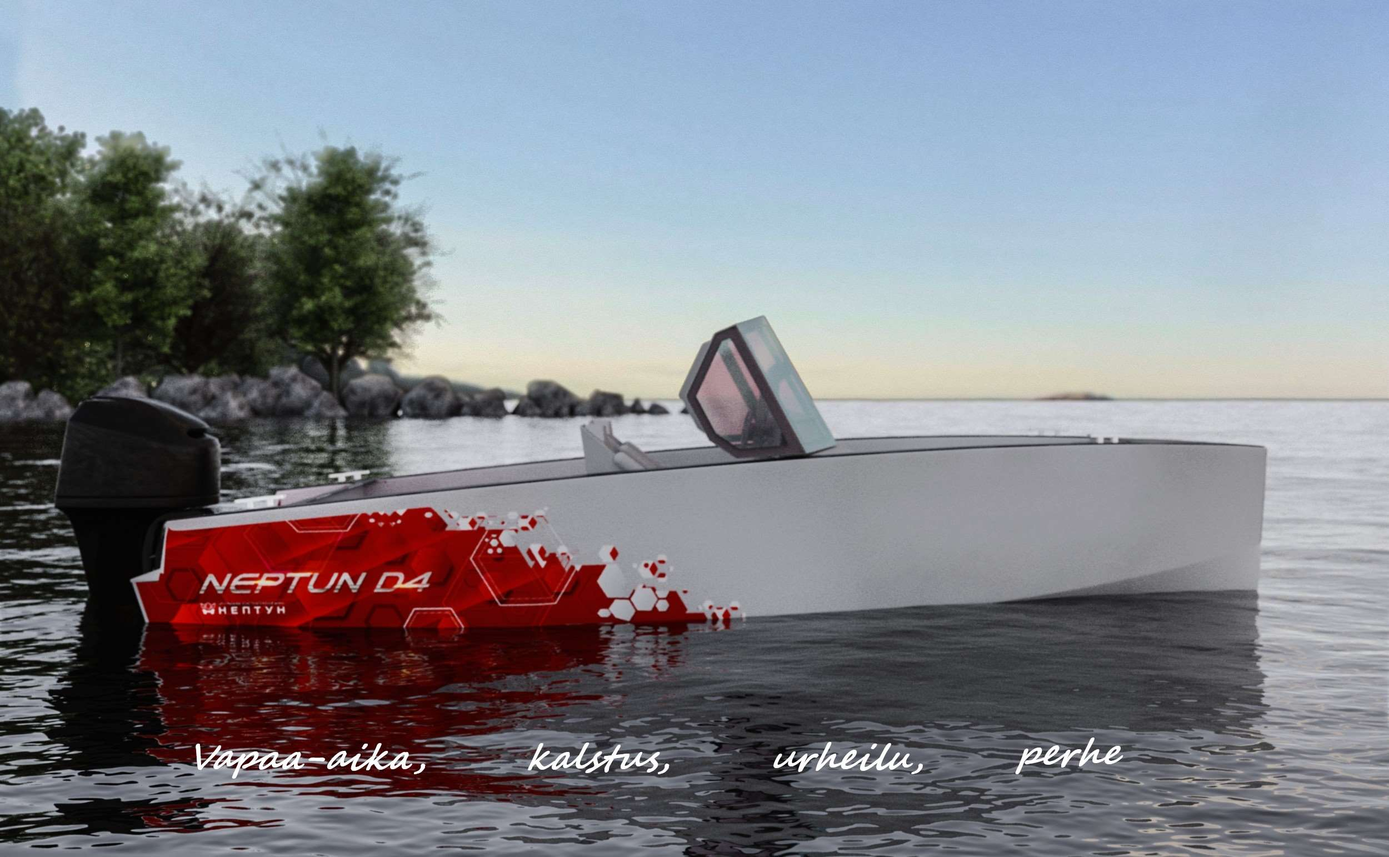
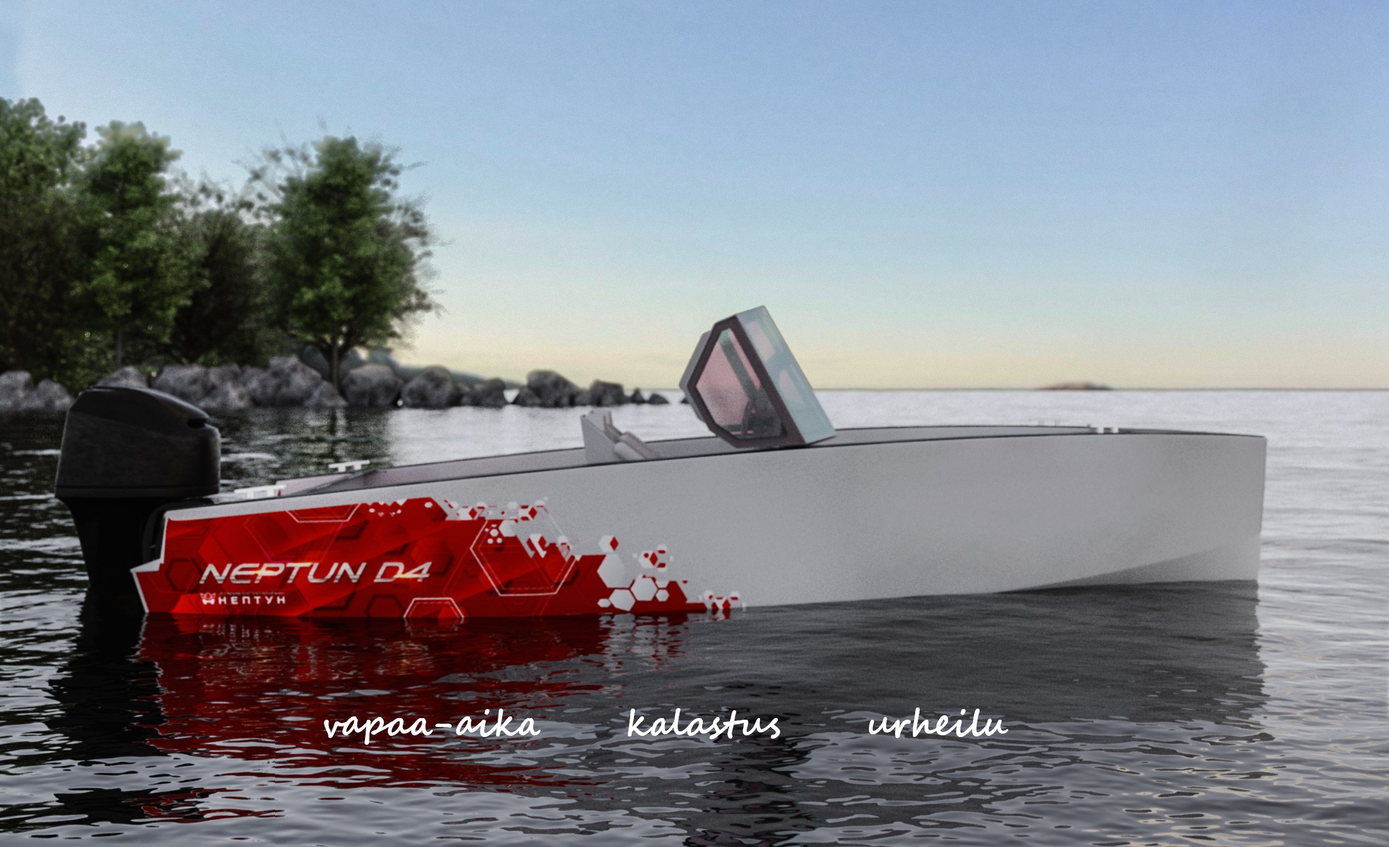
13.2

diff --git a/boat/home.html b/boat/home.html
@@ -19,29 +19,31 @@
 <img src="lodka-logo.jpg"  width="213" height="39">
 <br>
 <font size=4>
-Neptun D4 malli hinta/laatu-suhteeltaan on
-hyvä vaihtoehto omassa veneluokassa. Myös
-veneen ulkonäkö, mukavuus ja ajoominaisuudet ovat luokan kärkeä. Veneessa
-on riittävästi lattiatilaa.
-Hitsaamalla tehty kokonainen runko on
-vahva ja tiiivis ja se on uppoamaton.
-Valmistusmateriaali PE-HD muovi *
-(Suuritiheyksinen muovi) jolla UV-suojaus.
-Sillä taattu veneen kestävyys kovissakin
-rasituksissa kuten kolhuja, iskuja, suuria
-lämpötilaeroja ja UV-säteily.
-Veneeseen mukavasti mahtuu (maks.) 6-
+Neptun D4 malli on hintalaatusuhteeltaan järkevä ja tyylikäs
+vaihtoehto veneluokassaan. Veneen
+mukavuus ja ajo-ominaisuudet ovat
+kärkiluokkaa. Veneessa on runsaasti
+lattiatilaa.
+Hitsaamalla tehty yksiosainen runko on
+uppoamaton, vahva ja tiiivis.
+Valmistusmateriaali UV-suojattu PE-HD
+muovi * (Suuritiheyksinen muovi) .
+Kestää kovaakin rasitusta, iskuja, suuria
+lämpötilaeroja ja säätä.Vene kantaa 6-
 henkilöä. Veneen kuljettamiseen riittää
-kevytperävaunu ja ”B”- luokan ajokortti
-Neptun D4 soveltuu aktiivisille ja harrastaja
-kalastajille, perheille tai mukavaan ajan
-viettoon.
+kevytperävaunu ja ”B”- luokan ajokortti.
+Neptun D4 soveltuu ammattikäyttöön,
+aktiiviselle kalastajalle ja mukavaan ajan
+viettoon vaikka perheen kanssa.
 <br><br>
 
 <img src=lodka.jpg  width="833" height="514">
 <img src=lodka-2.jpg  width="833" height="514">
 <br>
-<img src=lodka-3.jpg  width="500" height="666">
+<img src=lodka-3.jpg  width="833" height="514">
+<img src=lodka-4.jpg  width="833" height="514">
+<br>
+<img src=lodka-5.jpg  width="500" height="666">
 <img src=lodka-tekn2.png  width="974" height="666">
 <br>
 * PE-HD (korkeatiheyksinen polyeteeni) on samea, kova ja kestävä, mutta samalla joustava muovityyppi. Hyvä iskunkestävyys kylmissäkin lämpötiloissa (esim. pakastaessa). PE-HD:lla on hyvä kemiallinen kestävyys ja se on hajuton sekä mauton.
